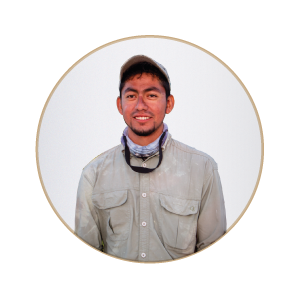
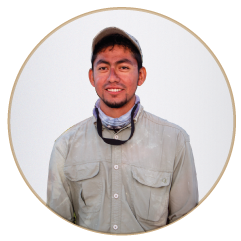
Fixed Bout us images

diff --git a/css/style.css b/css/style.css
@@ -128,8 +128,8 @@ font-family: "Playfair Display SC";
 
 .circles-container {
     margin-top: -100px;
-	padding-left:15%;
-	padding-right:15%;
+	padding-left:17.5%;
+
 	margin-bottom: 4%;
 	
 }
@@ -159,11 +159,15 @@ a.darken:hover img {
 	display: inline-block;
 }
 
+.circle-picture{
+	width : 75%;
+
+}
 .circle {
     margin-right:5%;
 	border-radius: 50%;
-	width:135px;
-	height:135px;
+	width:95px;
+	height:95px;
 	font-size:15px;
 	color:#fff;
 	text-align:center;

diff --git a/aboutus.php b/aboutus.php
@@ -135,18 +135,16 @@
 </div>
 <div class="circles-container">
     <div class="round-circle-pic">
-        <img src="img/about-us/guide-1.png"></img>
+        <img class="circle-picture" src="img/about-us/guide-1.png"></img>
     </div>
     <div class="darken round-circle-pic">
-     <a class="darken">
-		<img src="img/about-us/guide-2.png"></img>
-	</a>
+		<img class="circle-picture" src="img/about-us/guide-2.png"></img>
     </div>
     <div class="round-circle-pic">
-        <img src="img/about-us/guide-3.png"></img>
+        <img class="circle-picture" src="img/about-us/guide-3.png"></img>
     </div>
     <div class="round-circle-pic">
-        <img src="img/about-us/guide-4.png"></img>
+        <img class="circle-picture" src="img/about-us/guide-4.png"></img>
     </div>	
 </div>	
 
